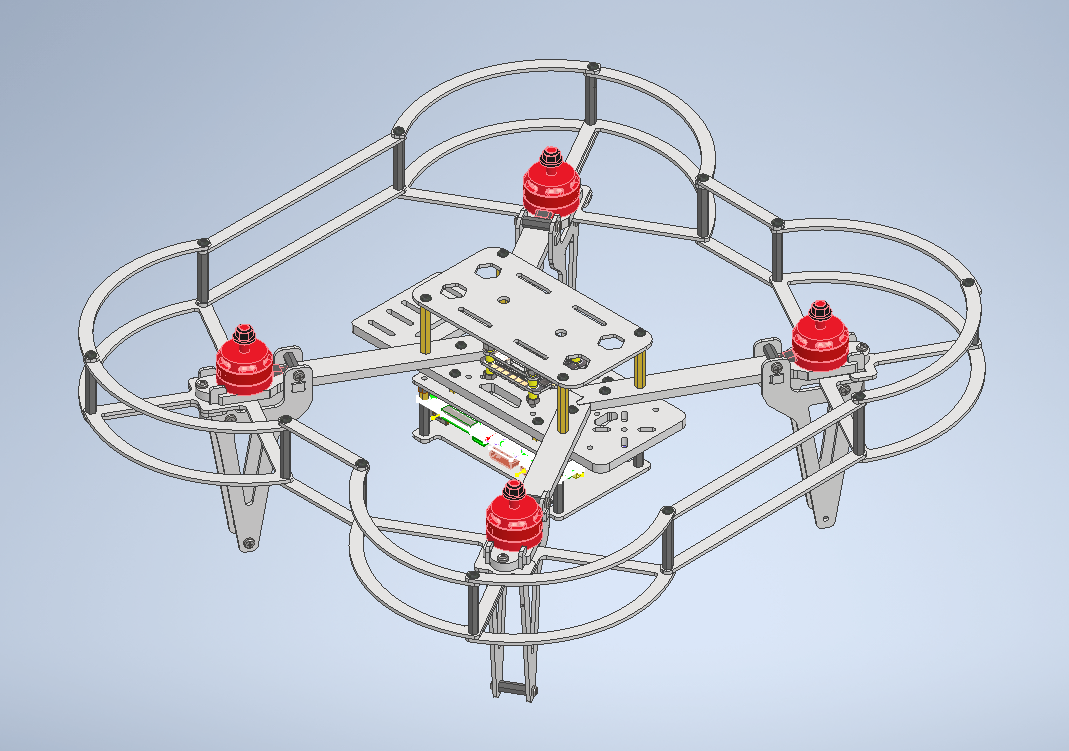
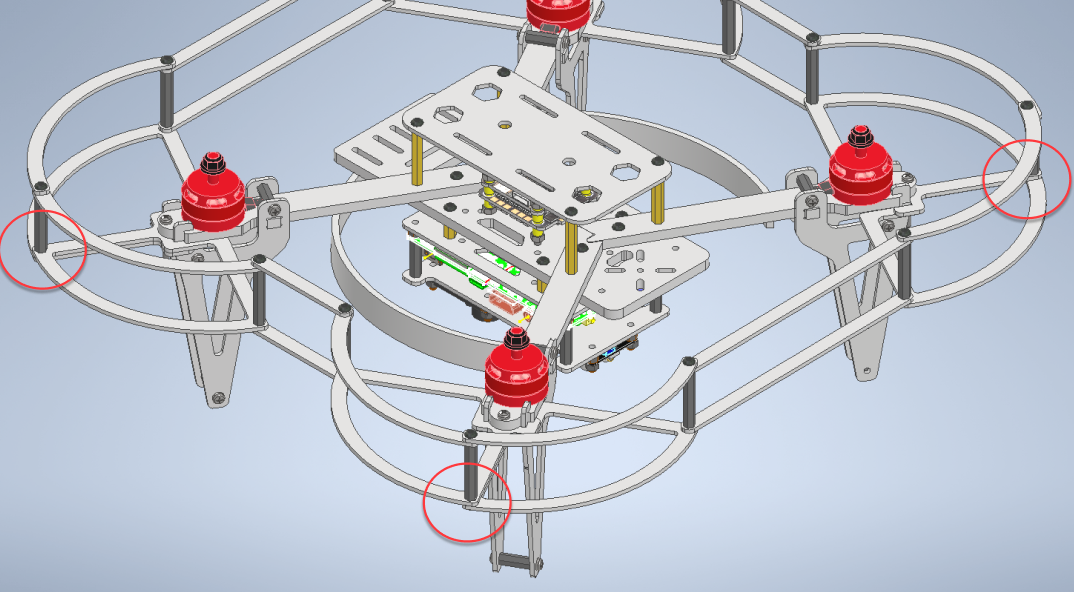
изменения сборки

diff --git a/docs/ru/assembly.md b/docs/ru/assembly.md
@@ -97,7 +97,7 @@
 
 ## Установка Orange Pi 5 {#6}
 
-1. На нижнюю платформу для Orange Pi установите нейлоновые стойки M3(10мм + 6мм) и закрепите винтами M3x8 (НЕX)
+1. На нижнюю платформу для Orange Pi установите нейлоновые стойки M3(5мм + 6мм) и закрепите винтами M3x8 (НЕX)
 
 <img src="assets/assembly/8.1.png" width="800" height="500" alt="8.1">
 
@@ -168,10 +168,18 @@
 
 3. Закрепите оставшиеся защитные пластины при помощи стоек 40мм и винтов M3x8 (НЕX)
 
+Важно: При установке соблюдайте симметричность крепления. Нижние пластины должны соединяться только с нижними, а верхние — только с верхними. 
+
 <img src="assets/assembly/9.3.png" width="800" height="500" alt="9.3">
 
 ## Установка светодиодной ленты {#11}
 
-1. Установите светодиодную ленту как показано на рисунке
+1. Клеим светодиодную ленту на обод, подключаем её к питанию +5v – 5v, земле GND – GND и сигнальному порту DIN – GPIO01-C1 как показано на схеме
+
+<img src="assets/assembly/11.1.png" width="800" height="500" alt="11">
+
+<span style="color:red"> Сверьтесь с [распиновкой Orange Pi](../ru/orangepi_info.md) перед подключением! <span>
+
+2. Закрепляем обод как показано на рисунке
 
 <img src="assets/assembly/10.png" width="800" height="500" alt="10">
